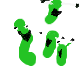
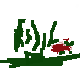
Marta Zombi Squirels

diff --git a/Marta/squirrel.py b/Marta/squirrel.py
@@ -6,14 +6,15 @@
 import random, sys, time, math, pygame
 from pygame.locals import *
 
+
 FPS = 30 # frames per second to update the screen
 WINWIDTH = 640 # width of the program's window, in pixels
 WINHEIGHT = 480 # height in pixels
 HALF_WINWIDTH = int(WINWIDTH / 2)
 HALF_WINHEIGHT = int(WINHEIGHT / 2)
 
-GRASSCOLOR = (0, 89, 10)
-WHITE = (24, 5, 119)
+GRASSCOLOR = (0, 19, 10)
+WHITE = (24, 50, 19)
 RED = (0, 9, 10)
 
 CAMERASLACK = 90     # how far from the center the squirrel moves before moving the camera
@@ -24,7 +25,7 @@ STARTSIZE = 40     # how big the player starts off
 WINSIZE = 300    # how big the player needs to be to win
 INVULNTIME = 0       # how long the player is invulnerable after being hit in seconds
 GAMEOVERTIME = 4     # how long the "game over" text stays on the screen in seconds
-MAXHEALTH = 100 # how much health the player starts with
+MAXHEALTH =  100# how much health the player starts with
 
 NUMGRASS = 300       # number of grass objects in the active area
 NUMSQUIRRELS = 30    # number of squirrels in the active area
@@ -76,7 +77,7 @@ def main():
     BASICFONT = pygame.font.Font('freesansbold.ttf', 32)
 
     # load the image files
-    L_SQUIR_IMG = pygame.image.load('squirrel.png')
+    L_SQUIR_IMG = pygame.image.load('asquirrel.png')
     R_SQUIR_IMG = pygame.transform.flip(L_SQUIR_IMG, True, False)
     GRASSIMAGES = []
     for i in range(1, 5):
